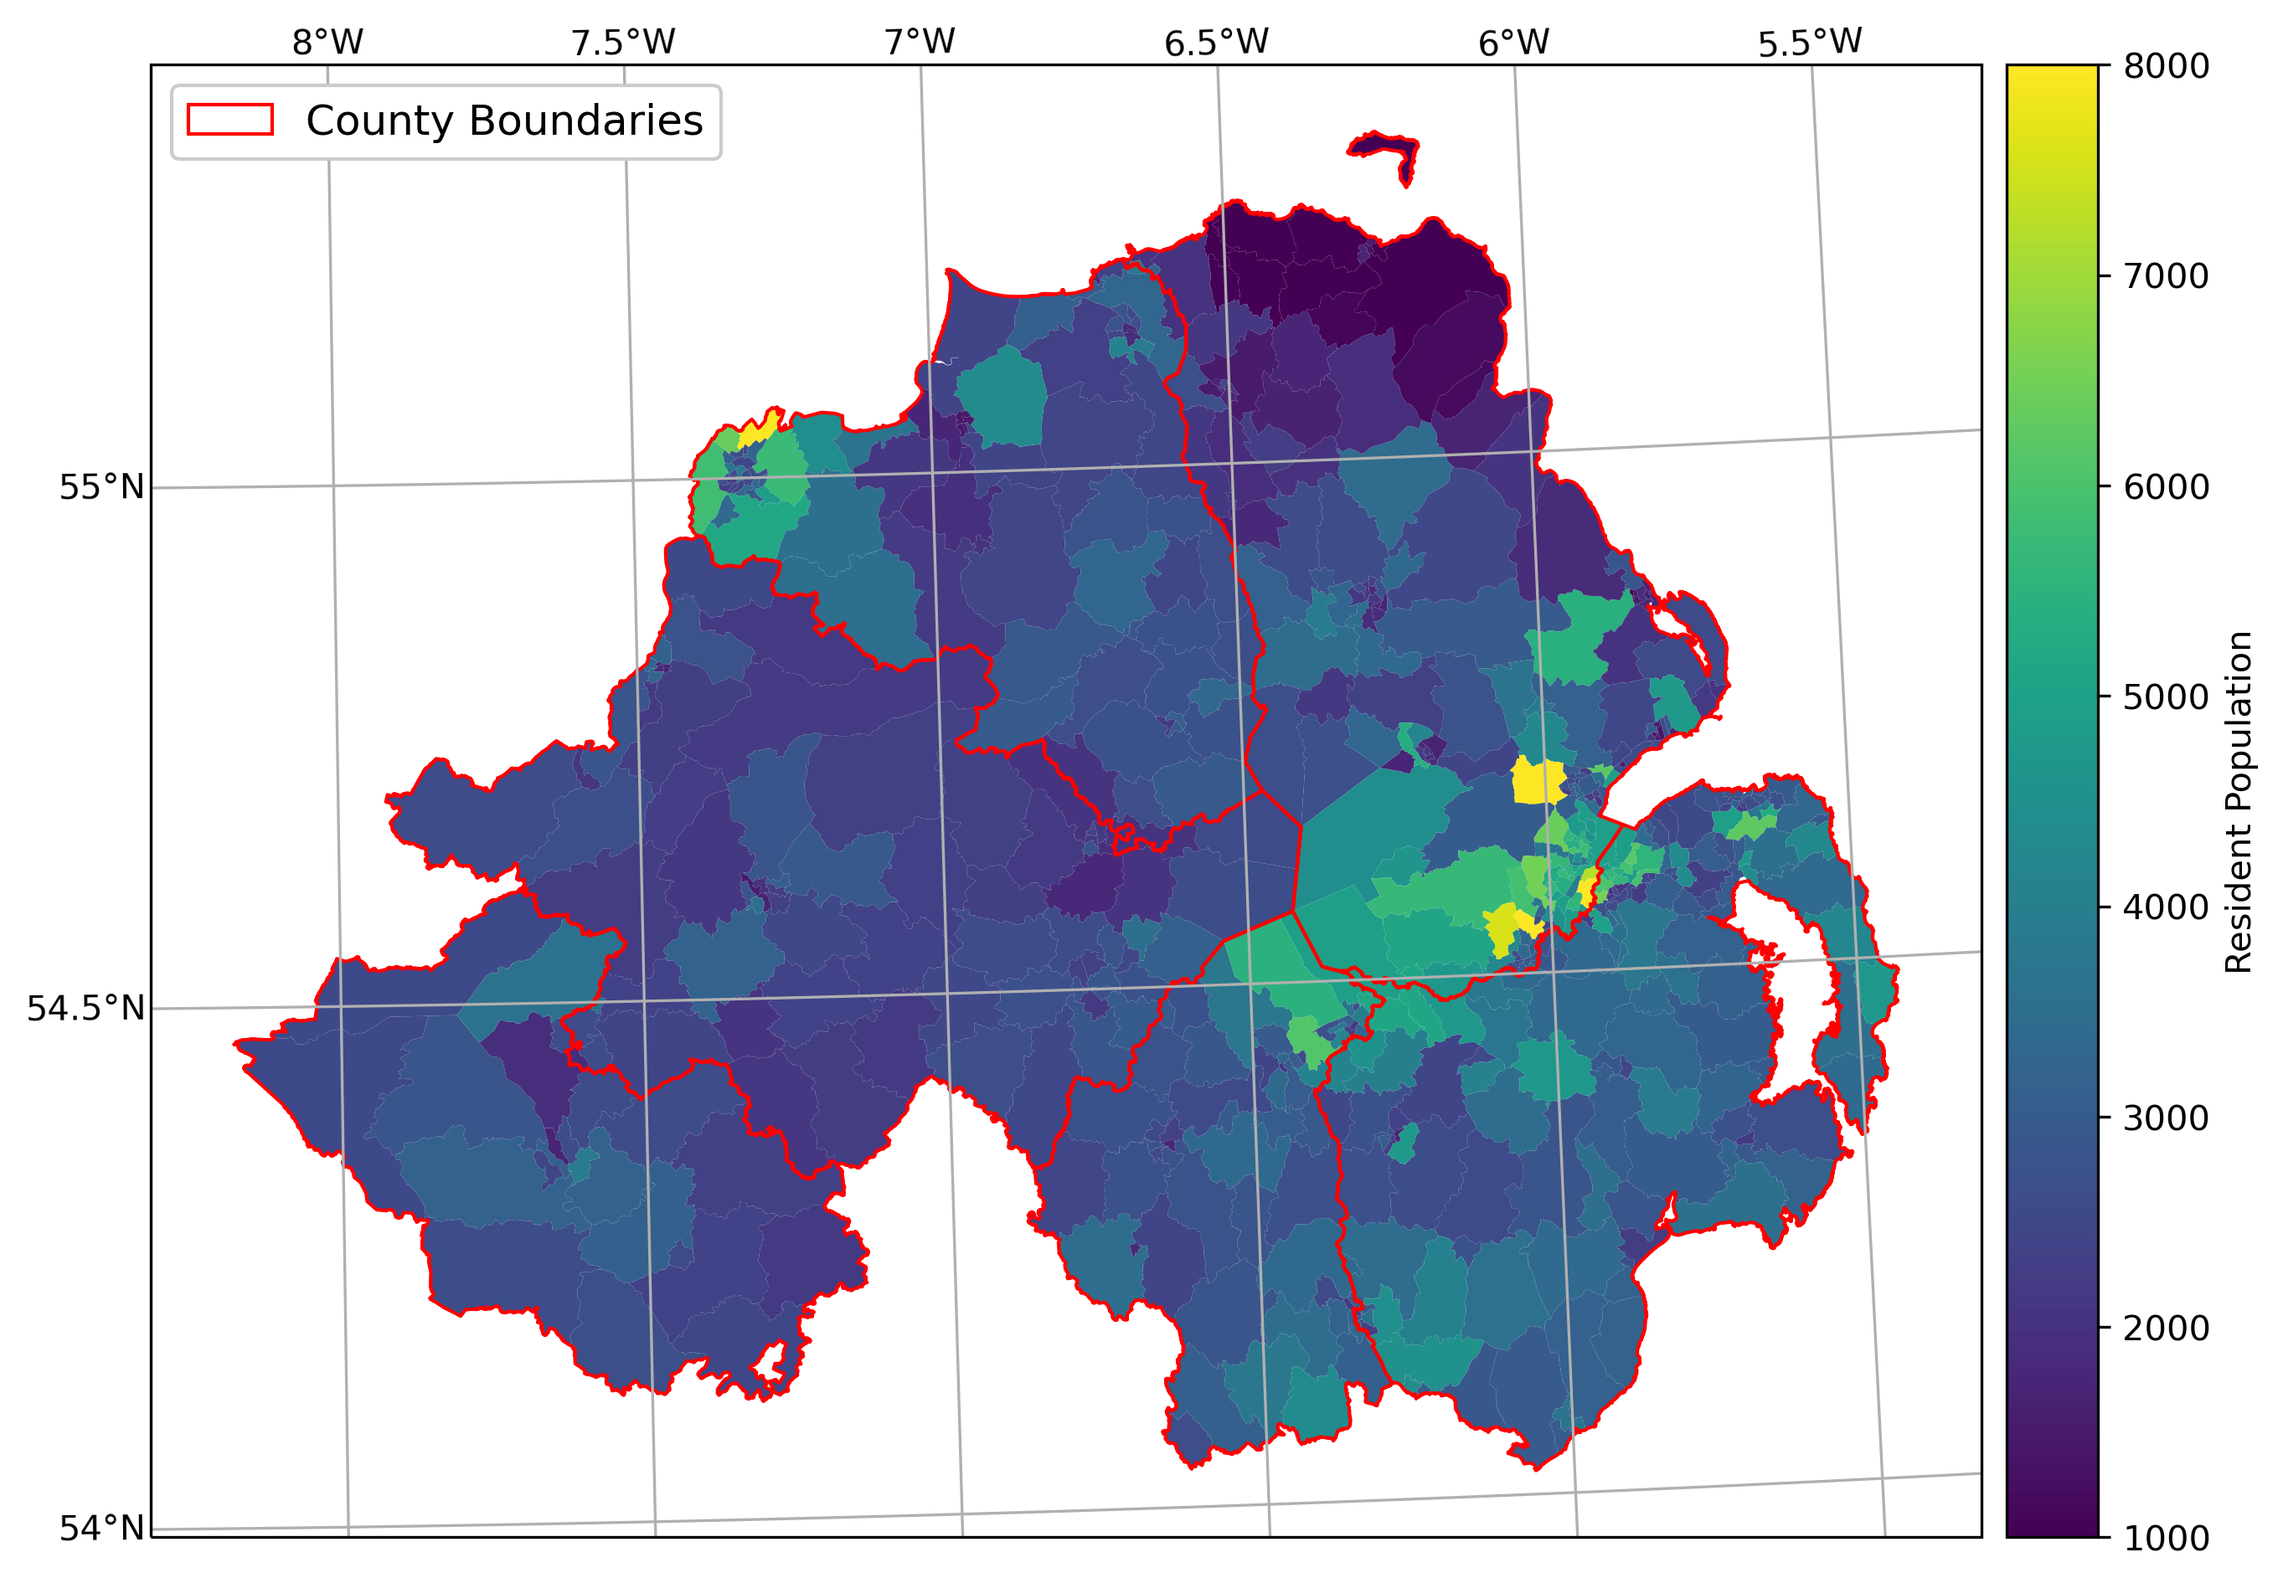
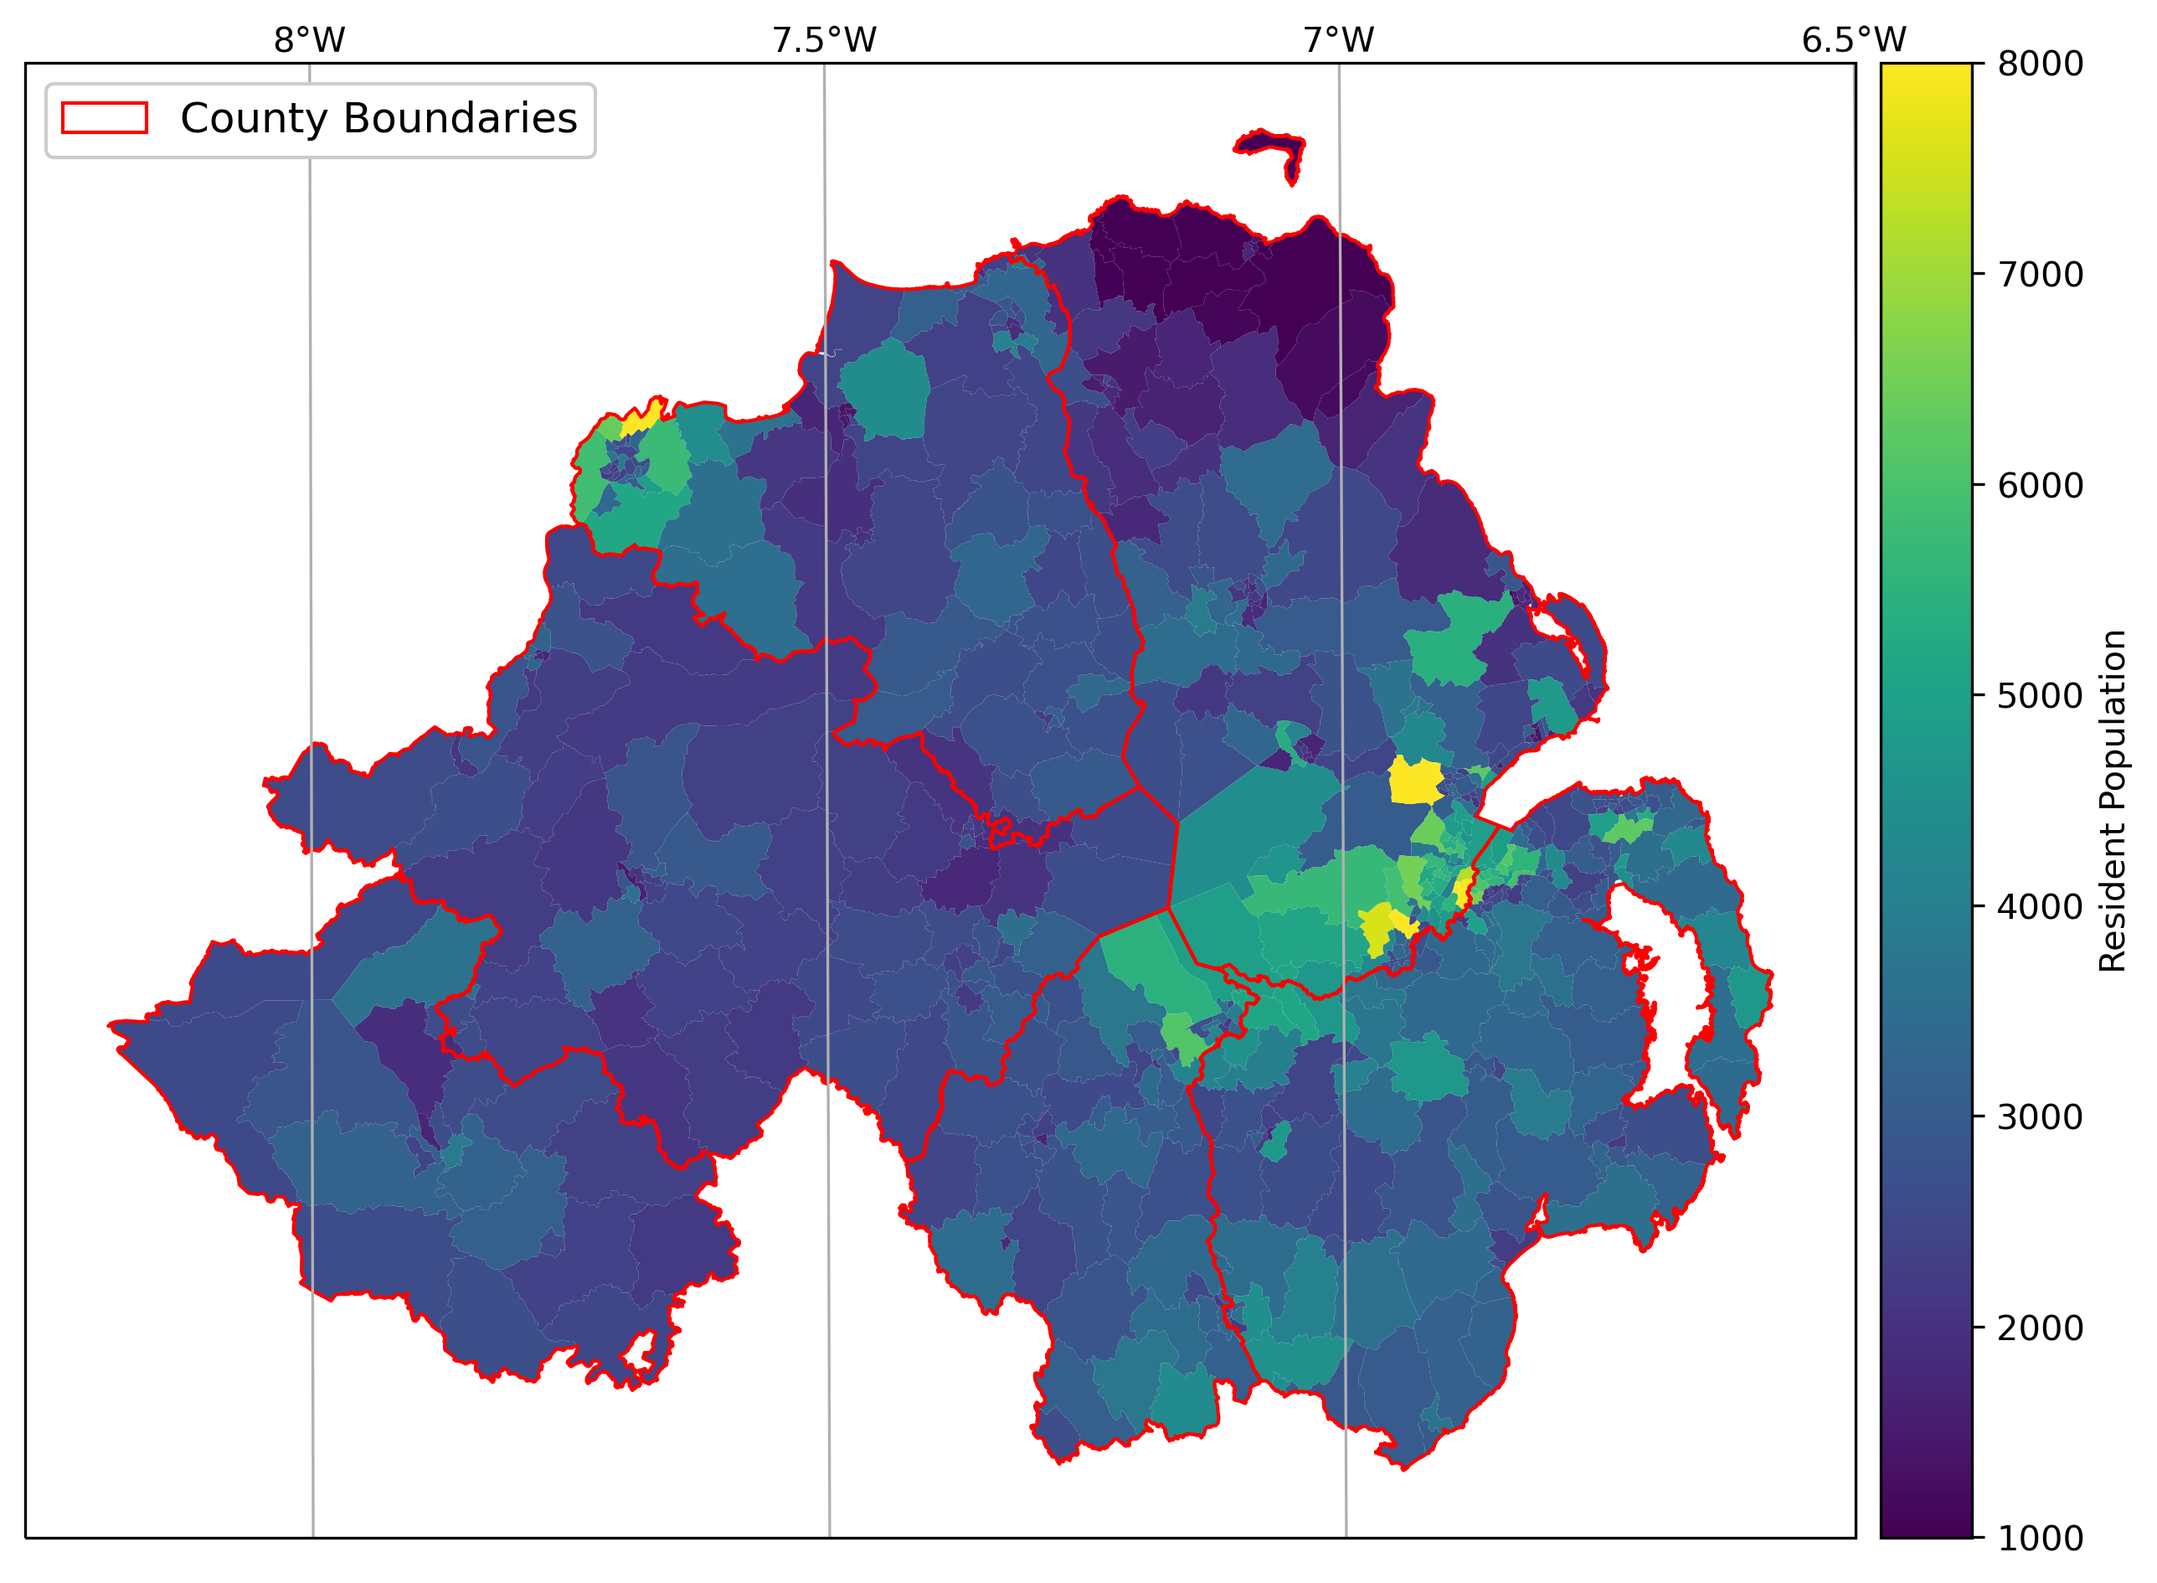
Excercise script Week 3 edits

diff --git a/Week3/exercise_script.py b/Week3/exercise_script.py
@@ -21,7 +21,7 @@ plt.ion()
 # in this section, write the script to load the data and complete the main part of the analysis.
 # try to print the results to the screen using the format method demonstrated in the workbook
 
-# load the necessary data here and transform to a UTM projection
+# load the necessary data here and transform to a UTM projection (Additional Ex. 1)
 
 data_folder = 'D://UlsterProgramming//egm722//Week3//data_files//'
 
@@ -33,14 +33,16 @@ counties = counties.to_crs(epsg=2157)
 
 # your analysis goes here...
 join = gpd.sjoin(counties, wards, how='inner', lsuffix='left', rsuffix='right')
-print(join.groupby(['CountyName'])['Population'].sum())
+print(join.groupby(['CountyName'])['Population'].sum())  # (Additional ex. 2) Prints the sum of population per county
+# \(including potential overlaps)
 
-
-#.
+print('Max population Ward', wards.max(), 'Min population Ward', wards.min())   # (Additional Ex 2) Prints the wards
+# with minimum and maximum populations from list
 
 # ---------------------------------------------------------------------------------------------------------------------
 # below here, you may need to modify the script somewhat to create your map.
 # create a crs using ccrs.UTM() that corresponds to our CRS
+# Additional Ex 3.
 myCRS = ccrs.UTM(29)
 # create a figure of size 10x10 (representing the page size in inches
 fig, ax = plt.subplots(1, 1, figsize=(10, 10), subplot_kw=dict(projection=myCRS))
@@ -68,4 +70,4 @@ county_handles = generate_handles([''], ['none'], edge='r')
 ax.legend(county_handles, ['County Boundaries'], fontsize=12, loc='upper left', framealpha=1)
 
 # save the figure
-# fig.savefig('sample_map.png', dpi=300, bbox_inches='tight')
+fig.savefig('sample_map.png', dpi=300, bbox_inches='tight')
